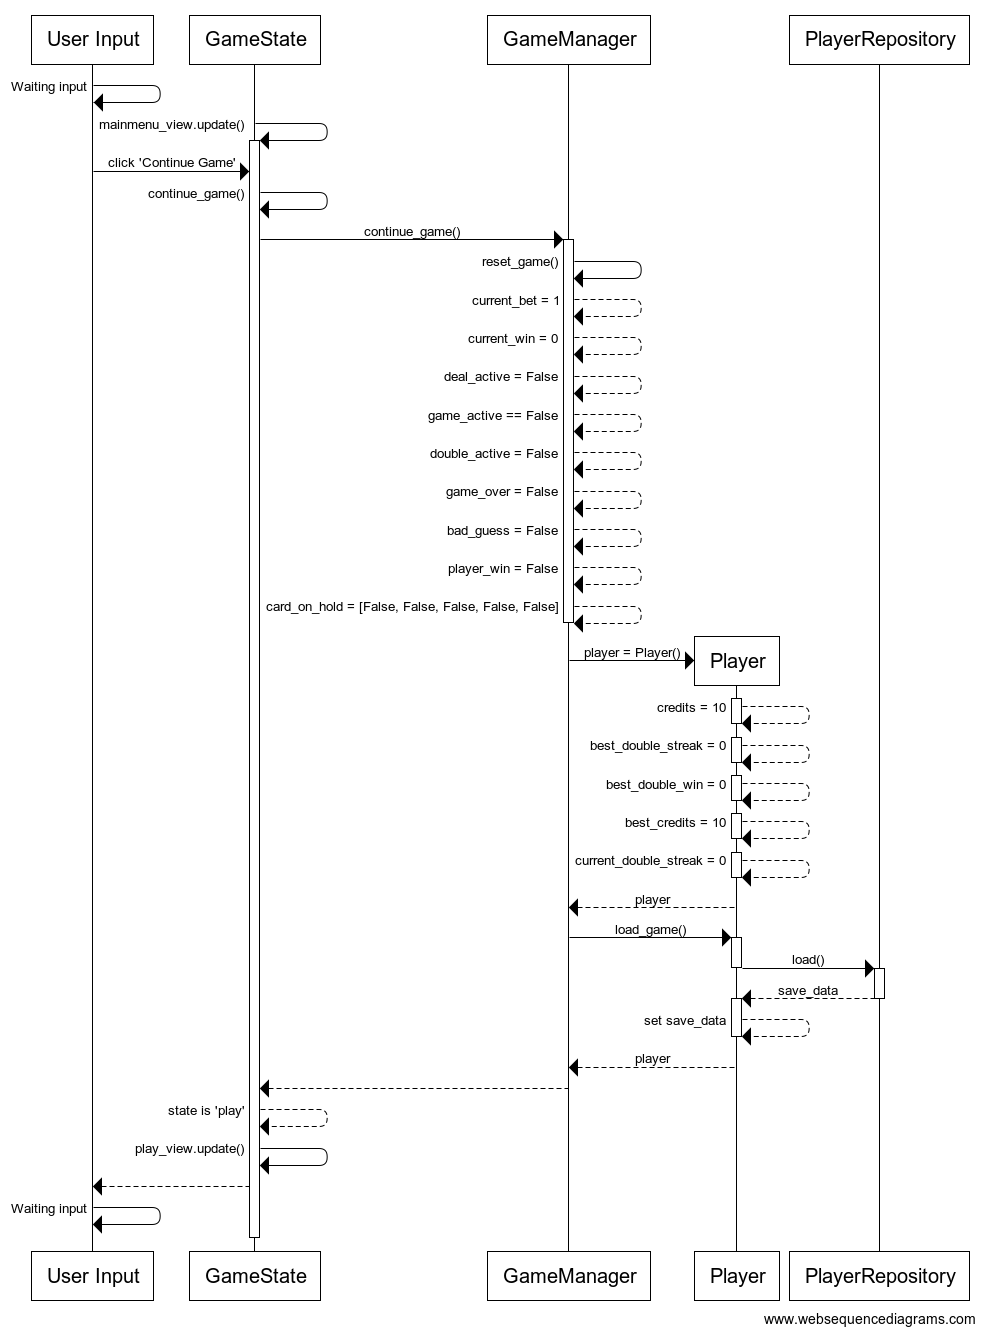
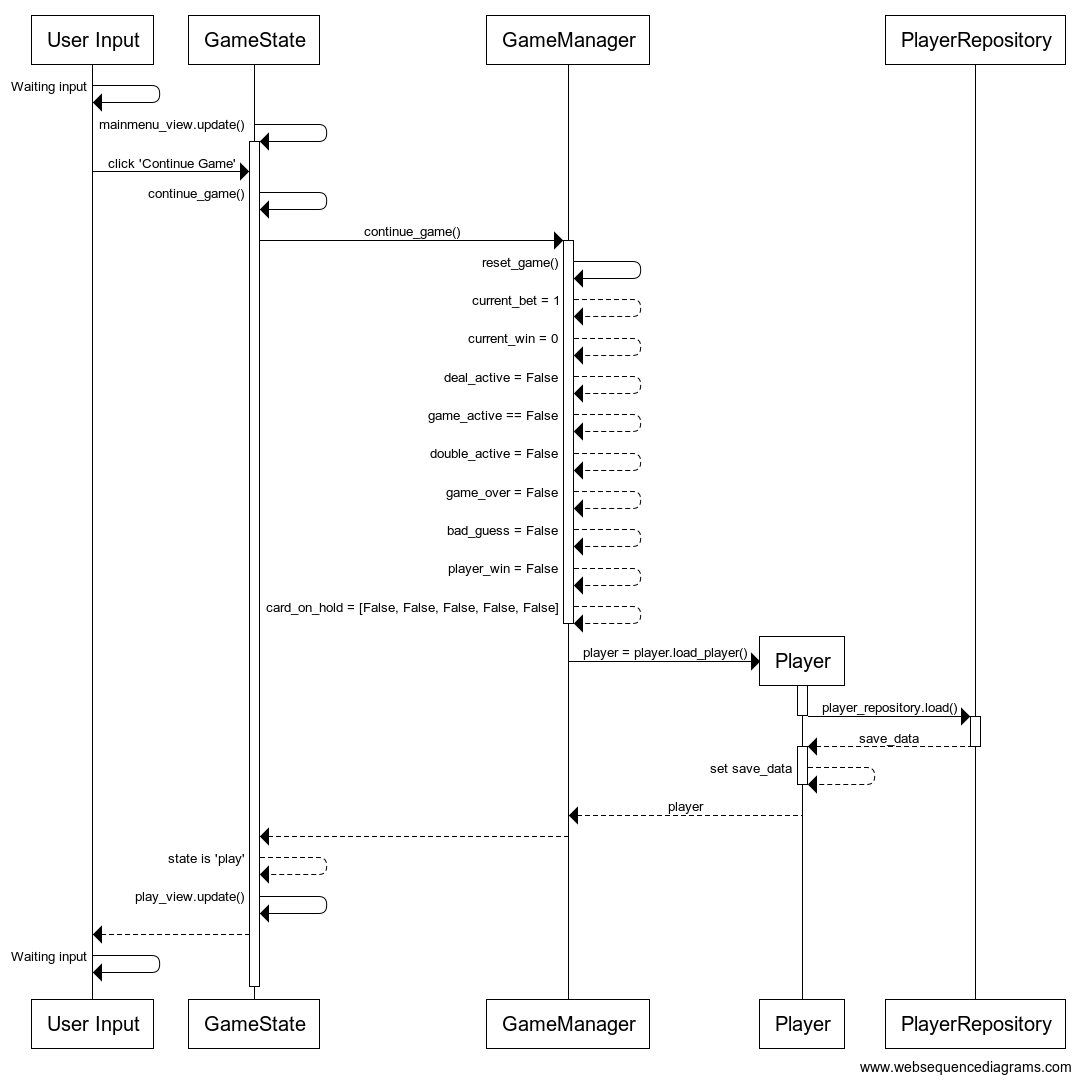
Update software architecture document

diff --git a/dokumentaatio/arkkitehtuurikuvaus.md b/dokumentaatio/arkkitehtuurikuvaus.md
@@ -33,7 +33,7 @@ Näitä luokkia hallinnoi [GameManager](../src/services/game_manager.py)-luokka.
 - `claim_win()`
 - `double()`
 
-_GameManager_ pääsee käsiksi myös pakkauksessa _repository_ sijaitsevaan luokkaan [PlayerRepository](../src/repositories/player_repository.py) joka hallinnoi käyttäjän tiedon tallentamista ja lataamista. Tallennettavan käyttäjä injektoidaan tallennusmetodin kutsun yhteydessä. Vastaavasti ladattaessa tietoa, käyttäjän tieto palautetaan kutsun yhteydessä.
+_GameManager_ pääsee käsiksi myös pakkauksessa _repository_ sijaitsevaan luokkaan [PlayerRepository](../src/repositories/player_repository.py) joka hallinnoi käyttäjän tiedon, sekä tulostaulukon tallentamista ja lataamista. Tallennettavan käyttäjä tiedot injektoidaan tallennusmetodin kutsun yhteydessä. Vastaavasti ladattaessa tietoa, käyttäjän tieto palautetaan kutsun yhteydessä.
 
 `GameManager` ja `GameState`-luokkien, ja ohjelman muiden osien suhdetta kuvaava luokka/pakkauskaavio:
 
@@ -41,7 +41,17 @@ _GameManager_ pääsee käsiksi myös pakkauksessa _repository_ sijaitsevaan luo
 
 ## Tietojen pysyväistallennus
 
+Pakkauksen _repositories_ luokka `PlayerRepository` huolehtii pelaajan tietojen tallentamisesta, sekä pelaajan mahdollisen ennätyksen tallentamisesta tulostaulukkoon. Sekä pelaajan tiedot, että tulostaulukko tallennetaan DAT-tiedostoon, `pickle`-moduulilla.
+
+Luokat noudattavat pääsääntöisesti [Repository](https://en.wikipedia.org/wiki/Data_access_object)-suunnittelumallia, ja tarvittaessa on helppo korvata tiedon tallennus, sekä lataus uusilla toteutuksilla. Testeissä käytetään erinimisiä tiedostoja.
+
 ### Tiedostot
+
+Sovellus tallettaa käyttäjän ja tulostaulukon tiedot erillisiin tiedostoihin.
+
+`PlayerRepository`:n kontruktorissa on määritelty vakionimet tiedostoille.
+
+Tiedostot `save.dat` ja `highscores.dat` tallennetaan `pickle`-moduulin avullla binäärimuotoon, jotta tiedostoja ei olisi niin helppo muokata käsin.
 
 ## Päätoiminnallisuudet
 
@@ -53,7 +63,7 @@ Kun päävalikon `New game`-painiketta painetaan, etenee sovelluksen kontrolli s
 
 ![uusi_peli_sekvenssikaavio](kuvat/uusi_peli_sekvenssikaavio.png)
 
-Painikkeen [tapahtumakäsittelijä](../src/ui/components/button.py#L79) kutsuu sovelluslogiikan `GameState` metodia [new_game](../src/services/game_state.py#L126) joka puolestaan kutsuu pelilogiikkaa hallitsevan `GameManager`:in metodia [new_game](../src/services/game_manager.py#L35). Seuraavaksi pelitilannetta hallitsevat muuttujat alustetaan [reset_game](../src/services/game_manager.py#L24) metodilla, ja luodaan uusi `Player`-olio. Tämän jälkeen `GameState` asettaa tilaksi `play` ja rupeaa päivittämään pelinäkymää käyttäjälle.
+Painikkeen [tapahtumakäsittelijä](../src/ui/components/button.py#L79) kutsuu sovelluslogiikan `GameState` metodia [new_game](../src/services/game_state.py#L169) joka puolestaan kutsuu pelilogiikkaa hallitsevan `GameManager`:in metodia [new_game](../src/services/game_manager.py#L61). Seuraavaksi pelitilannetta hallitsevat muuttujat alustetaan [reset_game](../src/services/game_manager.py#L44) metodilla, ja luodaan uusi `Player`- ja `PlayerRepository`-olio. Tämän jälkeen `GameState` asettaa tilaksi `play` ja rupeaa päivittämään pelinäkymää käyttäjälle.
 
 ### Vanhan pelin jatkaminen
 
@@ -61,7 +71,7 @@ Kun käyttäjä haluaa jatkaa vanhaa peliään `Continue`-painikkeella, etenee s
 
 ![pelin_jatkamisen_sekvenssikaavio](kuvat/pelin_jatkamisen_sekvenssikaavio.png)
 
-Painikkeen [tapahtumakäsittelijä](../src/ui/components/button.py#L79) kutsuu sovelluslogiikan `GameState` metodia [continue_game](../src/services/game_state.py#L110) joka puolestaan kutsuu pelilogiikkaa hallitsevan `GameManager`:in metodia [new_game](../src/services/game_manager.py#L35). Seuraavaksi pelitilannetta hallitsevat muuttujat alustetaan [reset_game](../src/services/game_manager.py#L24) metodilla, ja luodaan uusi `Player`-olio. Tämän jälkeen kutsutaan `Player` luokan [load_player](../src/entities/player.py#L44) metodia, joka hakee `PlayerRepository`:n kautta tallennetut tiedot. Jos tallenne on tyhjä, ei peliä voida jatkaa. Tässä tapauksessa tallenne ei ollut tyhjä, ja pelaajan muuttujat haetaan tiedostosta. Tämän jälkeen `GameState` asettaa tilaksi `play` ja rupeaa päivittämään pelinäkymää käyttäjälle.
+Painikkeen [tapahtumakäsittelijä](../src/ui/components/button.py#L79) kutsuu sovelluslogiikan `GameState` metodia [continue_game](../src/services/game_state.py#L156) joka puolestaan kutsuu pelilogiikkaa hallitsevan `GameManager`:in metodia [new_game](../src/services/game_manager.py#L65). Seuraavaksi pelitilannetta hallitsevat muuttujat alustetaan [reset_game](../src/services/game_manager.py#L44) metodilla, ja luodaan uusi `Player`-olio. Tämän jälkeen kutsutaan `Player` luokan [load_player](../src/entities/player.py#L110) metodia, joka hakee `PlayerRepository`:n kautta tallennetut tiedot. Jos tallenne on tyhjä, ei peliä voida jatkaa. Tässä tapauksessa tallenne ei ollut tyhjä, ja pelaajan muuttujat haetaan tiedostosta. Tämän jälkeen `GameState` asettaa tilaksi `play` ja rupeaa päivittämään pelinäkymää käyttäjälle.
 
 ### Yhden vuoron pelaaminen
 
@@ -69,17 +79,17 @@ Tarkastellaan tilannetta, missä käyttäjä korottaa korottaa panosta kerran, a
 
 ![pelin_jatkamisen_sekvenssikaavio](kuvat/yksi_vuoro_sekvenssikaavio.png)
 
-Painikkeen `+` [tapahtumakäsittelijä](../src/ui/components/button.py#L79) kutsuu `GameManager`:in metodia [increase_bet](../src/services/game_manager.py#L54), ja korottaa käytettävää panosta yhdellä. Tämä näkyy käyttäjälle realiaikaisesti, koska jatkuvasti päivitetään pelinäkymää pääsilmukassa.
+Painikkeen `+` [tapahtumakäsittelijä](../src/ui/components/button.py#L79) kutsuu `GameManager`:in metodia [increase_bet](../src/services/game_manager.py#L81), ja korottaa käytettävää panosta yhdellä. Tämä näkyy käyttäjälle realiaikaisesti, koska jatkuvasti päivitetään pelinäkymää pääsilmukassa.
 
-Tämän jälkeen `Deal`-painikkeen painamisen jälkeen, [tapahtumakäsittelijä](../src/ui/components/button.py#L80) kutsuu `GameManager`:in metodia [deal](../src/services/game_manager.py#L112), jonka logiikka aloittaa pelivuoron. Pelivuoron alussa kutsutaan `Player`:n metodia [remove_credits](../src/entities/player.py#L19), parametrilla `current_bet`. Seuraavaksi kutsutaan `Deck`:n metodia [draw_one_card](../src/entities/deck.py#L46) viisi kertaa jonka jälkeen pelikortit näkyvät pelinäkymässä.
+Tämän jälkeen `Deal`-painikkeen painamisen jälkeen, [tapahtumakäsittelijä](../src/ui/components/button.py#L79) kutsuu `GameManager`:in metodia [deal](../src/services/game_manager.py#L157), jonka logiikka aloittaa pelivuoron. Pelivuoron alussa kutsutaan `Player`:n metodia [remove_credits](../src/entities/player.py#L53), parametrilla `current_bet`. Seuraavaksi kutsutaan `Deck`:n metodia [draw_one_card](../src/entities/deck.py#L44) viisi kertaa jonka jälkeen pelikortit näkyvät pelinäkymässä.
 
-Nyt kun käyttäjä lukitsee pelikortteja, painikkeen [tapahtumakäsittelijä](../src/ui/components/button.py#L79) kutsuu `GameManager`:in metodia [hold_card](../src/services/game_manager.py#L72) ja saa parametrina lukittavan kortin numeron. Kun käyttäjä on tyytyväinen lukittuihin kortteihin, painikkeella `Deal` aktivoidaan taas `GameState`-luokan kautta `GameManager´:n metodi [deal](../src/services/game_manager.py#L112), joka vaihtaa uudet pelikortit _ei-lukittujen_ pelikorttien paikalle, ja tarkistaa onko käyttäjällä voittoa.
+Nyt kun käyttäjä lukitsee pelikortteja, painikkeen [tapahtumakäsittelijä](../src/ui/components/button.py#L79) kutsuu `GameManager`:in metodia [hold_card](../src/services/game_manager.py#L99) ja saa parametrina lukittavan kortin numeron. Kun käyttäjä on tyytyväinen lukittuihin kortteihin, painikkeella `Deal` aktivoidaan taas `GameState`-luokan kautta `GameManager´:n metodi [deal](../src/services/game_manager.py#L157), joka vaihtaa uudet pelikortit _ei-lukittujen_ pelikorttien paikalle, ja tarkistaa onko käyttäjällä voittoa.
 
-Voiton tarkistus tapahtuu `GameManager`:in metodilla [check_player_hand](../src/services/game_manager.py#L134) joka vastaa pelin voittologiikasta. Koska kyseessä oli voittava käsi, kutsutaan `GameManager`:in metodia [set_win_amount](../src/services/game_manager.py#L212) sekä asetetaan muuttuja `player_win` todeksi.
+Voiton tarkistus tapahtuu `GameManager`:in metodilla [check_player_hand](../src/services/game_manager.py#L179) joka vastaa pelin voittologiikasta. Koska kyseessä oli voittava käsi, kutsutaan `GameManager`:in metodia [set_win_amount](../src/services/game_manager.py#L266) sekä asetetaan muuttuja `player_win` todeksi.
 
 Tämän jälkeen `GameState` huomaa, että käyttäjä on voittanut, ja näyttää käyttäjälle voittonäkymän.
 
-Kun käyttäjä painaa `Claim` painiketta, [tapahtumakäsittelijä](../src/ui/components/button.py#L79) kutsuu `GameManager`:in metodia [claim_win](../src/services/game_manager.py#L231), joka puolestaan kutsuu `Player`:in metodia [add_credits](../src/entities/player.py#L13) parametrinaan kyseisen voittokäden voittosumman. Tämän jälkeen `GameManager` asettaa muuttujat `current_win` nollaksi, sekä `player_win` epätodeksi, ja `GameState` huomaa muutokset pääsilmukassa, ja palaa näyttämään pelinäkymää käyttäjälle.
+Kun käyttäjä painaa `Claim` painiketta, [tapahtumakäsittelijä](../src/ui/components/button.py#L79) kutsuu `GameManager`:in metodia [claim_win](../src/services/game_manager.py#L285), joka puolestaan kutsuu `Player`:in metodia [add_credits](../src/entities/player.py#L35) parametrinaan kyseisen voittokäden voittosumman. Tämän jälkeen `GameManager` asettaa muuttujat `current_win` nollaksi, sekä `player_win` epätodeksi, ja `GameState` huomaa muutokset pääsilmukassa, ja palaa näyttämään pelinäkymää käyttäjälle.
 
 ### Voiton tuplaaminen
 
@@ -87,11 +97,11 @@ Voittotilanteessa, käyttäjällä on mahdollisuus voiton tuplaamiseen painamall
 
 ![voiton_tuplaus_sekvenssikaavio](kuvat/voiton_tuplaus_sekvenssikaavio.png)
 
-Painikkeen `Double or nothing` [tapahtumakäsittelijä](../src/ui/components/button.py#L79) kutsuu `GameManager`:in metodia [double](../src/services/game_manager.py#L78), joka alustaa sovelluksen tuplaamista varten valmiiksi, sekä asettaa muuttujan `double_active` todeksi. Tämän jälkeen `GameState` huomaa, että muuttuja `double_active` on tosi ja siirtää näkymän tuplausnäkymään.
+Painikkeen `Double or nothing` [tapahtumakäsittelijä](../src/ui/components/button.py#L79) kutsuu `GameManager`:in metodia [double](../src/services/game_manager.py#L105), joka alustaa sovelluksen tuplaamista varten valmiiksi, sekä asettaa muuttujan `double_active` todeksi. Tämän jälkeen `GameState` huomaa, että muuttuja `double_active` on tosi ja siirtää näkymän tuplausnäkymään.
 
-Käyttäjä painaa painiketta `Low` jonka [tapahtumakäsittelijä](../src/ui/components/button.py#L80) kutsuu `GameManager`:in metodia [guess_card_rank](../src/services/game_manager.py#L84) parametrilla `'low'`, joka puolestaan kutsuu `Deck`:in metodia [draw_one_card](../src/entities/deck.py#L46). Metodin [guess_card_rank](../src/services/game_manager.py#L84) logiikka tarkistaa arvauksen tämän jälkeen, ja asettaa pelin häviämistilaan, sekä kutsuu `Player`:in metodia [successful_double](../src/entities/player.py#L24) parametrilla `False`. Tämä metodi liittyy `Player` statistiikkaan.
+Käyttäjä painaa painiketta `Low` jonka [tapahtumakäsittelijä](../src/ui/components/button.py#L79) kutsuu `GameManager`:in metodia [guess_card_rank](../src/services/game_manager.py#L113) parametrilla `'low'`, joka puolestaan kutsuu `Deck`:in metodia [draw_one_card](../src/entities/deck.py#L44). Metodin [guess_card_rank](../src/services/game_manager.py#L113) logiikka tarkistaa arvauksen tämän jälkeen, ja asettaa pelin häviämistilaan, sekä kutsuu `Player`:in metodia [successful_double](../src/entities/player.py#L70) parametrilla `False`. Tämä metodi liittyy `Player` statistiikkaan.
 
-`GameState` huomaa, että arvaus oli huono joten käyttäjälle näytetään häviönäkymä. Käyttäjä vahvistaa tämän painamalla painiketta `OK` ja painikkeen [tapahtumakäsittelijä](../src/ui/components/button.py#L79) kutsuu `GameManager`:in metodia [end_double](../src/services/game_manager.py#L108), joka päättää tuplauspelin. Nyt `GameState` tämän huomattuaan, siirtyy näyttämään pelinäkymää käyttäjälle.
+`GameState` huomaa, että arvaus oli huono joten käyttäjälle näytetään häviönäkymä. Käyttäjä vahvistaa tämän painamalla painiketta `OK` ja painikkeen [tapahtumakäsittelijä](../src/ui/components/button.py#L79) kutsuu `GameManager`:in metodia [end_double](../src/services/game_manager.py#L153), joka päättää tuplauspelin. Nyt `GameState` tämän huomattuaan, siirtyy näyttämään pelinäkymää käyttäjälle.
 
 ### Muut toiminnallisuudet
 
